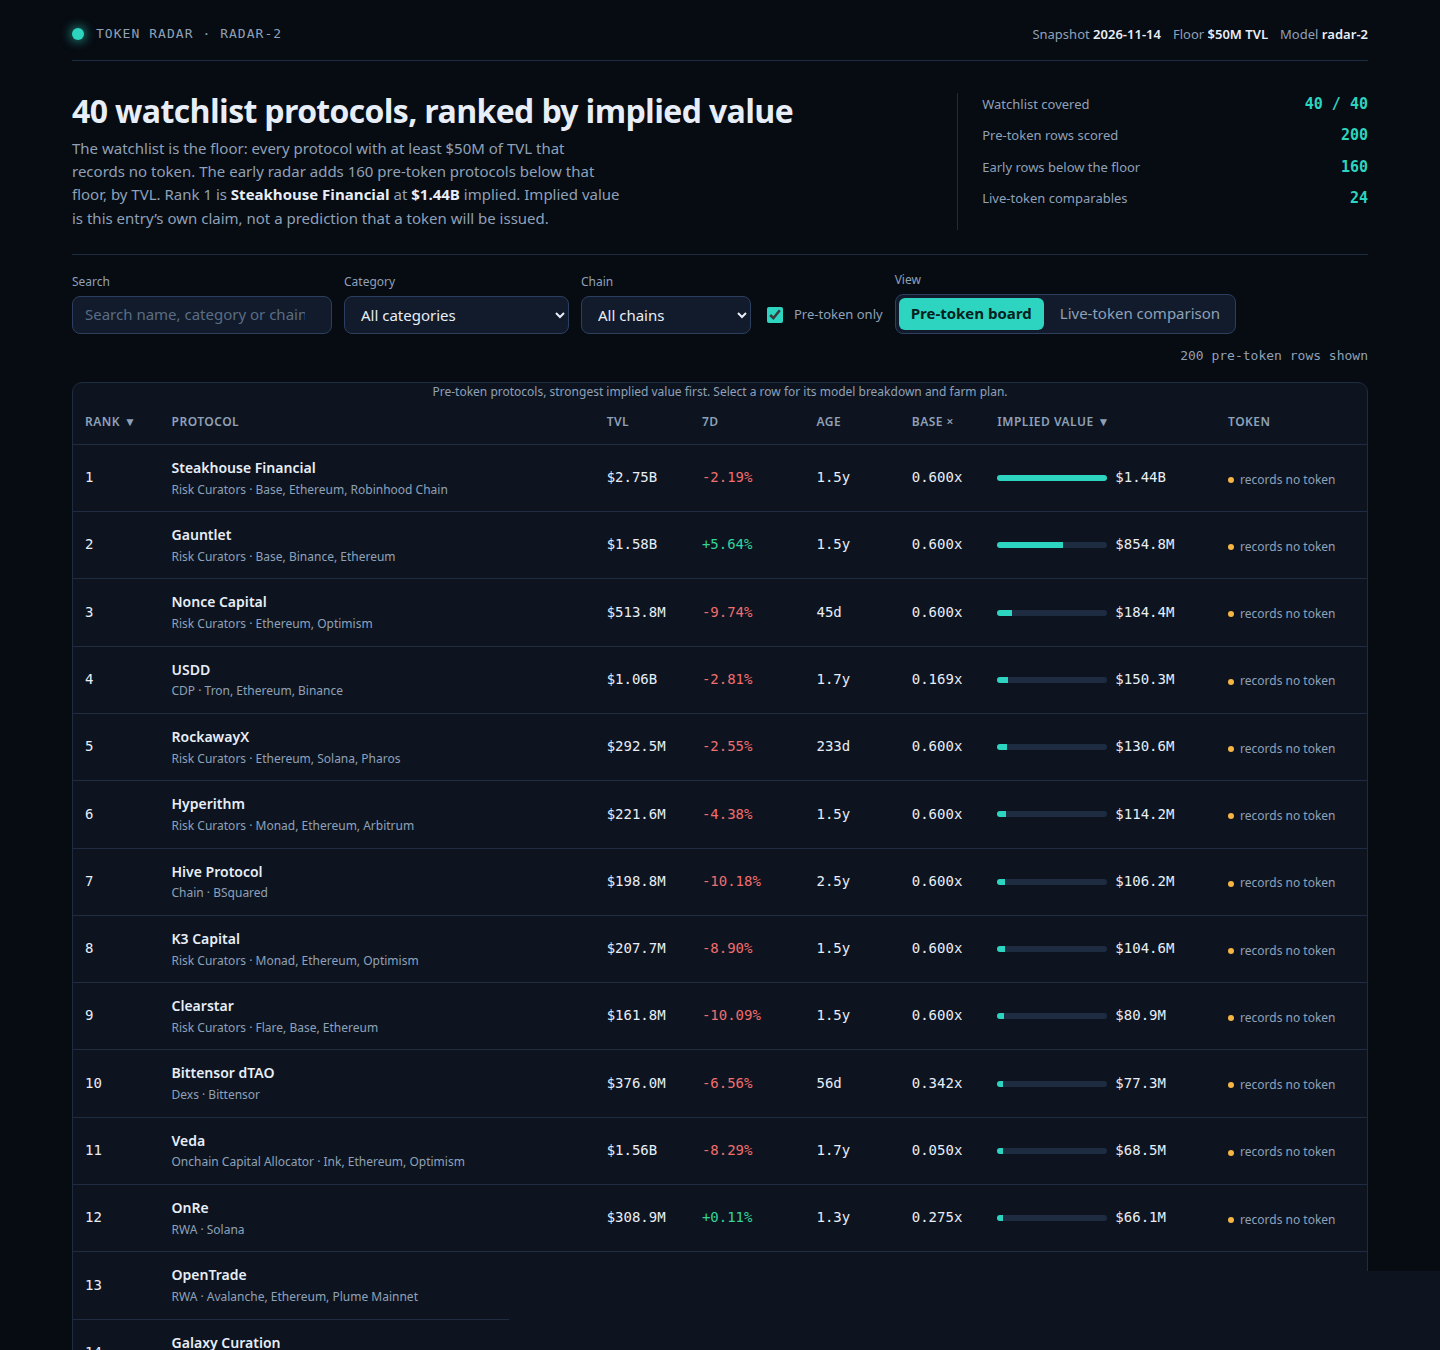
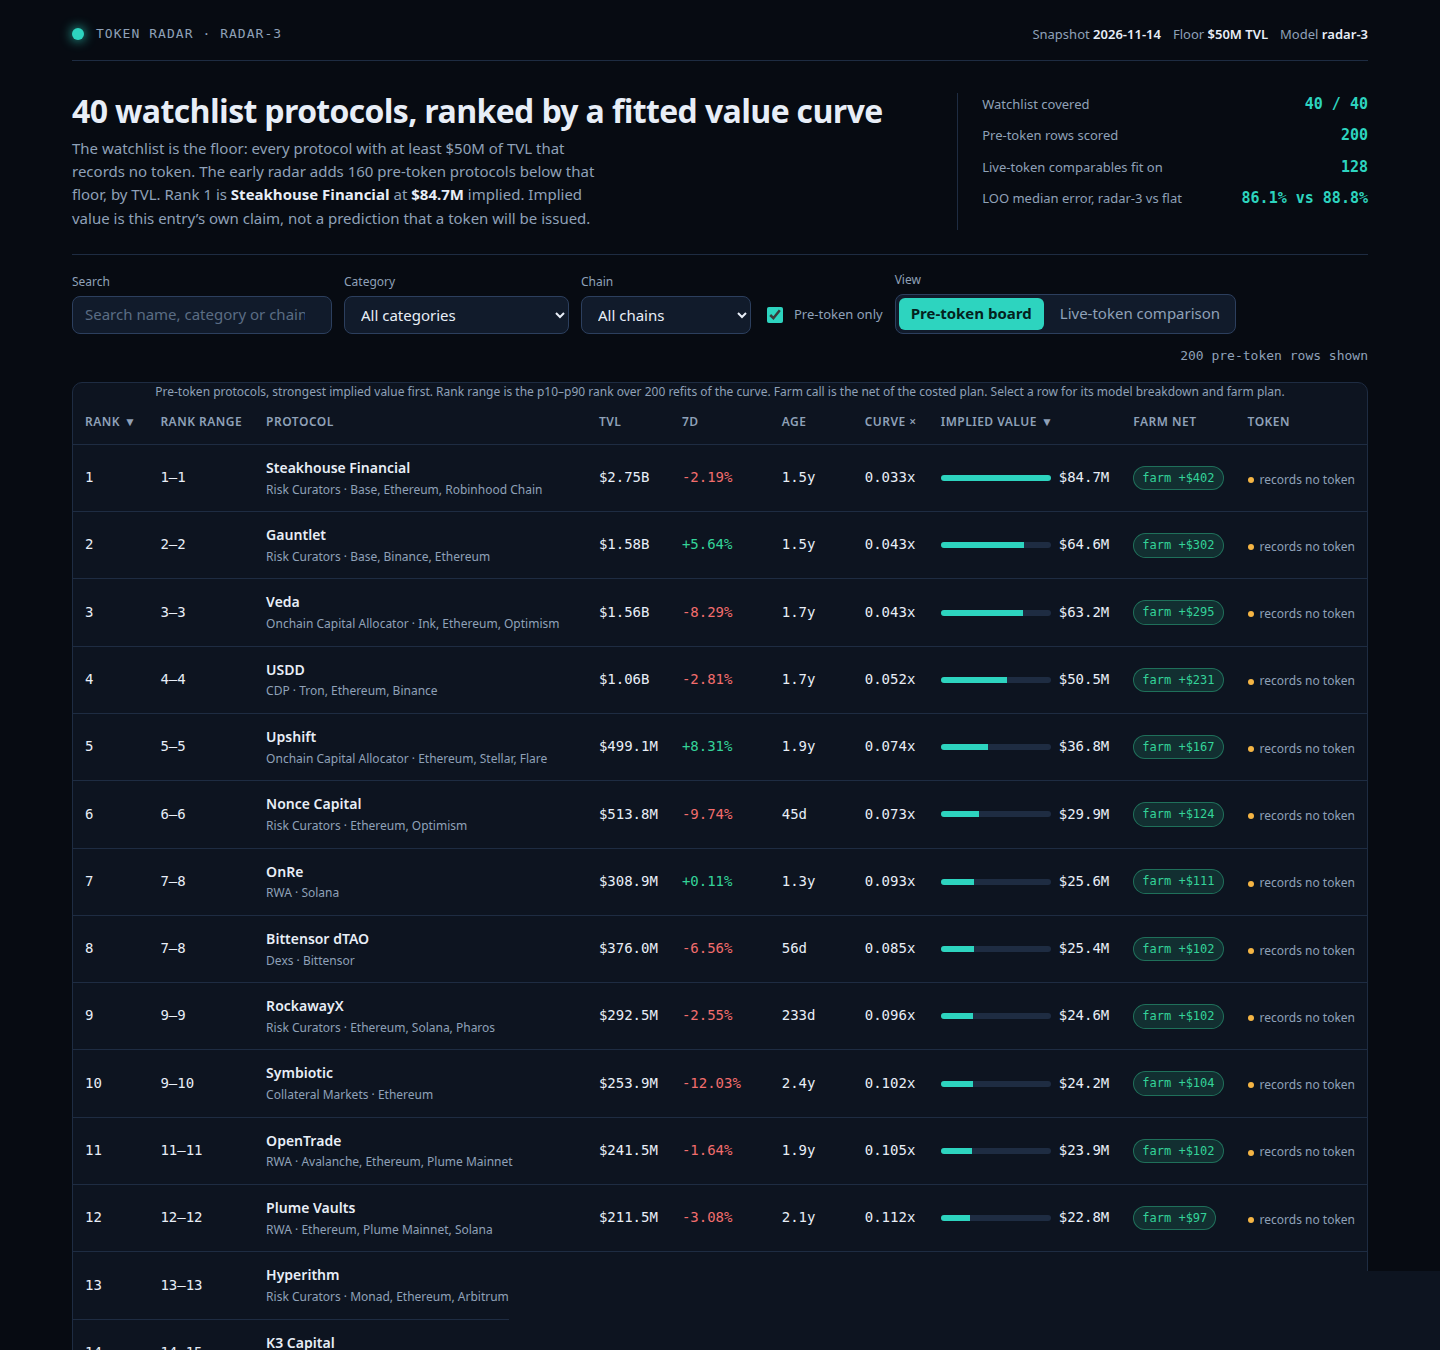
docs: radar-3 README; fresh 1440x1350 screenshots of the v3 dashboard

diff --git a/README.md b/README.md
@@ -4,7 +4,7 @@
 [![rank](https://make.fun/badge/token-radar-01/pesertaerdrop/token-radar-entry/rank.svg)](https://make.fun/bounty/token-radar-01/leaderboard?utm_source=github&utm_medium=readme&utm_campaign=token-radar-01)
 [![reward](https://make.fun/badge/token-radar-01/pesertaerdrop/token-radar-entry/reward.svg)](https://make.fun/bounty/token-radar-01?utm_source=github&utm_medium=readme&utm_campaign=token-radar-01)
 
-Token Radar radar-2: a comparable-based pre-token protocol board — 200 protocols ranked by implied value from the sealed DefiLlama snapshot, each with a 7-step farm plan, rendered as a no-network dark trading-terminal dashboard.
+Token Radar radar-3: a fitted value-curve pre-token protocol board — 200 protocols ranked by implied value from the sealed DefiLlama snapshot, the curve fit on 128 live-token comparables and tested leave-one-out and walk-forward, each row with a rank range from 200 refits and a 7-step farm plan netted to break-even in dollars, rendered as a no-network dark trading-terminal dashboard.
 
 ## Run it
 
